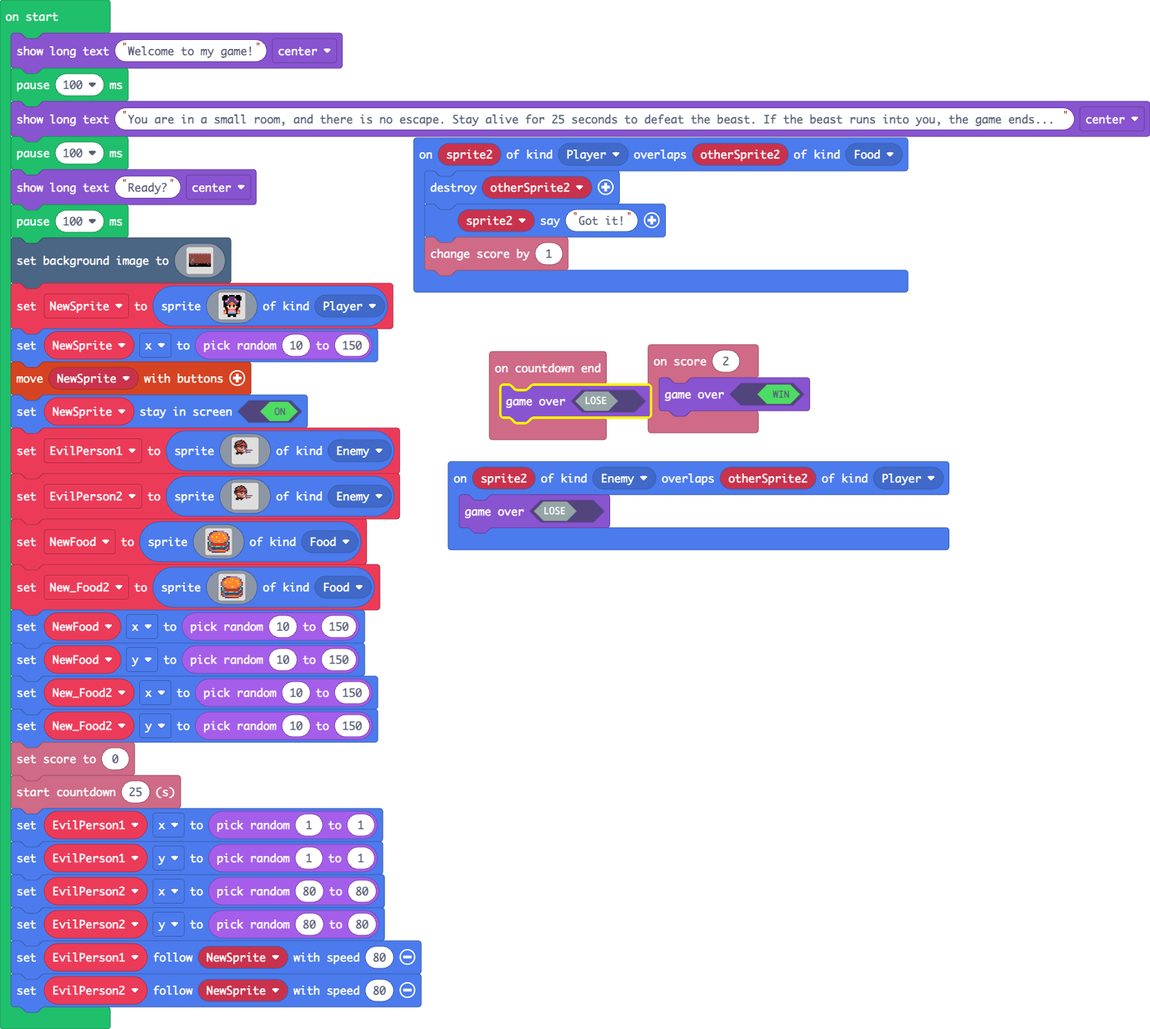
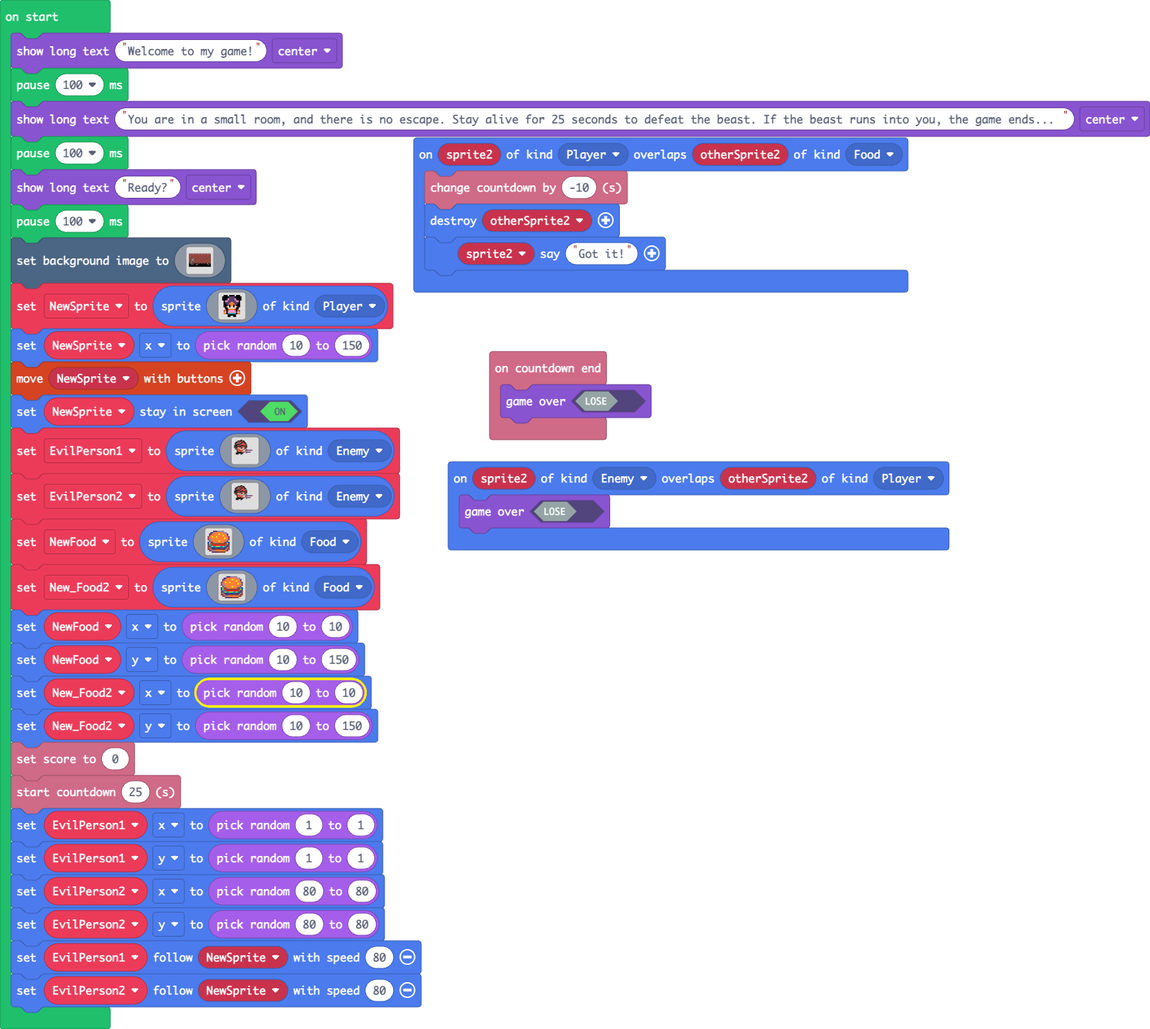
Update main.blocks, main.ts, main.py

diff --git a/main.ts b/main.ts
@@ -4,13 +4,10 @@ sprites.onOverlap(SpriteKind.Enemy, SpriteKind.Player, function (sprite2, otherS
 info.onCountdownEnd(function () {
     game.gameOver(false)
 })
-info.onScore(2, function () {
-    game.gameOver(true)
-})
 sprites.onOverlap(SpriteKind.Player, SpriteKind.Food, function (sprite2, otherSprite2) {
+    info.changeCountdownBy(-10)
     sprites.destroy(otherSprite2)
     sprite2.sayText("Got it!")
-    info.changeScoreBy(1)
 })
 game.showLongText("Welcome to my game!", DialogLayout.Center)
 pause(100)
@@ -122,9 +119,9 @@ let EvilPerson1 = sprites.create(assets.image`EvilPerson`, SpriteKind.Enemy)
 let EvilPerson2 = sprites.create(assets.image`EvilPerson`, SpriteKind.Enemy)
 let NewFood = sprites.create(assets.image`Burger`, SpriteKind.Food)
 let New_Food2 = sprites.create(assets.image`Burger`, SpriteKind.Food)
-NewFood.x = randint(10, 150)
+NewFood.x = randint(10, 10)
 NewFood.y = randint(10, 150)
-New_Food2.x = randint(10, 150)
+New_Food2.x = randint(10, 10)
 New_Food2.y = randint(10, 150)
 info.setScore(0)
 info.startCountdown(25)

diff --git a/main.py b/main.py
@@ -1,16 +1,16 @@
+def on_on_overlap(sprite2, otherSprite2):
+    game.game_over(False)
+sprites.on_overlap(SpriteKind.enemy, SpriteKind.player, on_on_overlap)
+
 def on_countdown_end():
-    pass
+    game.game_over(False)
 info.on_countdown_end(on_countdown_end)
 
-def on_on_score():
-    game.game_over(True)
-info.on_score(2, on_on_score)
-
-def on_on_overlap(sprite2, otherSprite2):
-    sprites.destroy(otherSprite2)
-    sprite2.say_text("Got it!")
-    info.change_score_by(1)
-sprites.on_overlap(SpriteKind.player, SpriteKind.food, on_on_overlap)
+def on_on_overlap2(sprite22, otherSprite22):
+    info.change_countdown_by(-10)
+    sprites.destroy(otherSprite22)
+    sprite22.say_text("Got it!")
+sprites.on_overlap(SpriteKind.player, SpriteKind.food, on_on_overlap2)
 
 game.show_long_text("Welcome to my game!", DialogLayout.CENTER)
 pause(100)
@@ -21,99 +21,99 @@ game.show_long_text("Ready?", DialogLayout.CENTER)
 pause(100)
 scene.set_background_image(img("""
     beeeeebbbbbbbbbbbebbbeeeebbbbbbbbbebbbbbbbeeeeebbbbbbbbbbbebbbeeeeebbbbbbbbebbbbbbbeeeeebbbbbbbbbbbbebbbeeeebbbbbbbbebbbbbbbeeeeebbbbbbbbbbbbebbbeeeebbbbbbbbebb
-    eeebeeeebbbbeebbbbbeeeeeeeebbeeebbbbbebbeeeebeeeebbbbeebbbbbeeeeeeeeebbeebbbbbebbeeeebeeeebbbbeebbbbbbeeeeeeeebbeebbbbbebbeeeebeeeeebbbbeebbbbbeeeeeeeebbeebbbbb
-    eeeeeeeeebbbeebbbbeebeeeeeeebeeebbbbbbbeeeeeeeeeeebbbeebbbbeebeeeeeeeebeebbbbbbbeeeeeeeeeeebbbeebbbbbeebeeeeeeebeebbbbbbbeeeeeeeeeeeebbbeebbbbeebeeeeeeebeebbbbb
-    beeeeeeeeebbbbbbbeeeeeeeeeeeebbbbbbbbbeebbeeeeeeeeebbbbbbbeeeeeeeeeeeeebbbbbbbbeebbeeeeeeeeebbbbbbbbeeeeeeeeeeeebbbbbbbbeebbeeeeeeeeeebbbbbbbeeeeeeeeeeeebbbbbbb
-    beeeeeeeeeeebbbeeeeeeeeeebbeeeeebbbbeeeebbeeeeeeeeeeebbbeeeeeeeeeeebbeeeebbbbeeeebbeeeeeeeeeeebbbbeeeeeeeeeebbeeeebbbbeeeebbeeeeeeeeeeeebbbeeeeeeeeeebbeeeebbbbe
-    eeeeeeeeeeeeeeeeeeeeeeeeebbeeeeeeeeeeeeeeeeeeeeeeeeeeeeeeeeeeeeeeeebbeeeeeeeeeeeeeeeeeeeeeeeeeeeeeeeeeeeeeeebbeeeeeeeeeeeeeeeeeeeeeeeeeeeeeeeeeeeeeeebbeeeeeeeee
-    eeeeeeeebbeeeeeebbeeeeeeeeeeebeeeeeeebeeeeeeeeeeebbeeeeeebbeeeeeeeeeeeebeeeeeebeeeeeeeeeeebbeeeeeeebbeeeeeeeeeeebeeeeeebeeeeeeeeeeeebbeeeeeebbeeeeeeeeeeebeeeeee
-    eeeeeeeebbeeeeeebbeeeeeeeeeeeeeeebbeeeeeeeeeeeeeebbeeeeeebbeeeeeeeeeeeeeeebbeeeeeeeeeeeeeebbeeeeeeebbeeeeeeeeeeeeeebbeeeeeeeeeeeeeeebbeeeeeebbeeeeeeeeeeeeeebbee
-    eeeeeeeeeeeebeeeeeeeeeeeeeeeeeeeebbeeeeeeeeeeeeeeeeeebeeeeeeeeeeeeeeeeeeeebbeeeeeeeeeeeeeeeeeebeeeeeeeeeeeeeeeeeeeebbeeeeeeeeeeeeeeeeeeebeeeeeeeeeeeeeeeeeeebbee
-    eeeeeeeeeeeeeeeeeeeeeeeeeeeeeeeeeeeeeeeeeeeeeeeeeeeeeeeeeeeeeeeeeeeeeeeeeeeeeeeeeeeeeeeeeeeeeeeeeeeeeeeeeeeeeeeeeeeeeeeeeeeeeeeeeeeeeeeeeeeeeeeeeeeeeeeeeeeeeeee
-    eeeeeeeeeeeeeeeeeeeeeeeeeeeeeeeeeeeeeeeeeeeeeeeeeeeeeeeeeeeeeeeeeeeeeeeeeeeeeeeeeeeeeeeeeeeeeeeeeeeeeeeeeeeeeeeeeeeeeeeeeeeeeeeeeeeeeeeeeeeeeeeeeeeeeeeeeeeeeeee
-    eeeeeeeeeeeeeeeeeeeeeeeeeeeeeeeeeeeeeeeeeeeeeeeeeeeeeeeeeeeeeeeeeeeeeeeeeeeeeeeeeeeeeeeeeeeeeeeeeeeeeeeeeeeeeeeeeeeeeeeeeeeeeeeeeeeeeeeeeeeeeeeeeeeeeeeeeeeeeeee
-    eeeeeeeeeeeeeeeeeeeeeeeeeeeeeeeeeeeeeeeeeeeeeeeeeeeeeeeeeeeeeeeeeeeeeeeeeeeeeeeeeeeeeeeeeeeeeeeeeeeeeeeeeeeeeeeeeeeeeeeeeeeeeeeeeeeeeeeeeeeeeeeeeeeeeeeeeeeeeeee
-    eeeeeeeeeeeeeeeeeeeeeeeeeeeeeeeeeeeeeeeeeeeeeeeeeeeeeeeeeeeeeeeeeeeeeeeeeeeeeeeeeeeeeeeeeeeeeeeeeeeeeeeeeeeeeeeeeeeeeeeeeeeeeeeeeeeeeeeeeeeeeeeeeeeeeeeeeeeeeeee
-    eeeeeeeeeeeeeeeeeeeeeeeeeeeeeeeeeeeeeeeeeeeeeeeeeeeeeeeeeeeeeeeeeeeeeeeeeeeeeeeeeeeeeeeeeeeeeeeeeeeeeeeeeeeeeeeeeeeeeeeeeeeeeeeeeeeeeeeeeeeeeeeeeeeeeeeeeeeeeeee
-    eeeeeeeeffffeeeeeeeeeeeeeeeeeeeeeeeeeeeeeeeeeeeeeeeeeeeeeeeeeeeeeeeeeeeeeeeeeeeeeeeeeeeeeeeeeeeeeeeeeeeeeeeeeeeeeeeeeeeeeeeeeeeeeeeeeeeeeeeeeeeeeeeeeeeeeeeeeeee
-    eeeeeeeefdbfeeeeeeeeeeeeeeeeeeeeeeeeeeeeeeeeeeeeeeeeeeeeeeeeeeeeeeeeeeeeeeeeeeeeeeeeeeeeeeeeeeeeeeeeeeeeeeeeeeeeeeeeeeeeeeeeeeeeeeeeeeeeeeffffeeeeeeeeeeeeeeeeee
-    eeeeeeeefdbfeeeeeeeeeeeeeeeeeeeeeeeeeeeeeeeeeeeeeeeeeeeeeeeeeeeeeeeeeeeeeeeeeeeeeeeeeeeeeeeeeeeeeeeeeeeeeeeeeeeeeeeeeeeeeeeeeeeeeeeeeeeeeeffffeeeeeeeeeeeeeeeeee
-    eeeeeeffbddfeeeeeeeeeeeeeeeeeeeeeeeeeeeeeeeeeeeeeeeeeeeeeeeeeeeeeeeeeeeeeeeeeeeeeeeeeeeeeeeeeeeeeeeeeeeeeeeeeeeeeeeeeeeeeeeeeeeeeeeeeeeeeefdbfeeeeeeeeeeeeeeeeee
-    eeeeeefddddfeeeeeeeeeeeeeeeeeeeeeeeeeeeeeeeeeeeeeeeeeeeeeeeeeeeeeeeeeeeeeeeeeeeeeeeeeeeeeeeeeeeeeeeeeeeeeeeeeeeeeeeeeeeeeeeeeeeeeeeeeeeeffbddfeeeeeeeeeeeeeeeeee
-    eeeeeefbdddffeeeeeeeeeeeeeeeeeeeeeeeeeeeeeeeeeeeeeeeeeeeeeeeeeeeeeeeeeeeeeeeeeeeeeeeeeeeeeeeeeeeeeeeeeeeeeeeeeeeeeeeeeeeeeeeeeeeeeeeeeeefddddffeeeeeeeeeeeeeeeee
-    eeeeeeffffbdffeeeeeeeeeeeeeeeeeeeeeeeeeeeeeeeeeeeeeeeeeeeeeeeeeeeeeeeeeeeeeeeeeeeeeeeeeeeeeeeeeeeeeeeeeeeeeeeeeeeeeeeeeeeeeeeeeeeeeeeeeefbdddbffeeeeeeeeeeeeeeee
-    eeeeeeeeeffddfffffeeeeeeeeeeeeeeeeeeeeeeeeeeeeeeeeeeeeeeeeeeeeeeeeeeeeeeeeeeeeeeeeeeeeeeeeeeeeeeeeeeeeeeeeeeeeeeeeeeeeeeeeeeeeeeeeeeeeeefffffddffeeeeeeeeeeeeeee
-    eeeeeeeeeeffbdddbfeeeeeeeeeeeeeeeeeeeeeeeeeeeeeeeeeeeeeeeeeeeeeeeeeeeeeeeeeeeeeeeeeeeeeeeeeeeeeeeeeeeeeeeeeeeeeeeeeeeeeeeeeeeeeeeeeeeeeeeeeeffddffeeeeeeeeeeeeee
-    eeeeeeeeeeeffddddfeeeeeeeeeeeeeeeeeeeeeeeeeeeeeeeeeeeeeeeeeeeeeeeeeeeeeeeeeeeeeeeeeeeeeeeeeeeeeeeeeeeeeeeeeeeeeeeeeeeeeeeeeeeeeeeeeeeeeeeeeeeffddffeeeeeeeeeeeee
-    eeeeeeeeeeeefddbffeeeeeeeeeeeeeeeeeeeeeeeeeeeeeeeeeeeeeeeeeeeeeeeeeeeeeeeeeeeeeeeeeeeeeeeeeeeeeeeeeeeeeeeeeeeeeeeeeeeeeeeeeeeeeeeeeeeeeeeeeeeeffdbffffeeeeeeeeee
-    eeeeeeeeeeeefbdfeeeeeeeeeeeeeeeeeeeeeeeeeeeeeeeeeeeeeeeeeeeeeeeeeeeeeeeeeeeeeeeeeeeeeeeeeeeeeeeeeeeeeeeeeeeeeeeeeeeeeeeeeeeeeeeeeeeeeeeeeeeeeeeffdddbfeeeeeeeeee
-    eeeeeeeeeeeeffffeeeeeeeeeeeeeeeeeeeeeeeeeeeeeeeeeeeeeeeeeeeeeeeeeeeeeeeeeeeeeeeeeeeeeeeeeeeeeeeeeeeeeeeeeeeeeeeeeeeeeeeeeeeeeeeeeeeeeeeeeeeeeeeefddddfeeeeeeeeee
-    eeeeeeeeeeeeeeeeeeeeeeeeeeeeeeeeeeeeeeeeeeeeeeeeeeeeeeeeeeeeeeeeeeeeeeeeeeeeeeeeeeeeeeeeeeeeeeeeeeeeeeeeeeeeeeeeeeeeeeeeeeeeeeeeeeeeeeeeeeeeeeeefddbffeeeeeeeeee
-    eeeeeeeeeeeeeeeeeeeeeeeeeeeeeeeeeeeeeeeeeeeeeeeeeeeeeeeeeeeeeeeeeeeeeeeeeeeeeeeeeeeeeeeeeeeeeeeeeeeeeeeeeeeeeeeeeeeeeeeeeeeeeeeeeeeeeeeeeeeeeeeefbdfeeeeeeeeeeee
-    eeeeeeeeeeeeeeeeeeeeeeeeeeeeeeeeeeeeeeeeeeeeeeeeeeeeeeeeeeeeeeeeeeeeeeeeeeeeeeeeeeeeeeeeeeeeeeeeeeeeeeeeeeeeeeeeeeeeeeeeeeeeeeeeeeeeeeeeeeeeeeeeffffeeeeeeeeeeee
-    eeeeeeeeeeeeeeeeeeeeeeeeeeeeeeeeeeeeeeeeeeeeeeeeeeeeeeeeeeeeeeeeeeeeeeeeeeeeeeeeeeeeeeeeeeeeeeeeeeeeeeeeeeeeeeeeeeeeeeeeeeeeeeeeeeeeeeeeeeeeeeeeeeeeeeeeeeeeeeee
-    eeeeeeeeeeeeeeeeeeeeeeeeeeeeeeeeeeeeeeeeeeeeeeeeeeeeeeeeeeeeeeeeeeeeeeeeeeeeeeeeeeeeeeeeeeeeeeeeeeeeeeeeeeeeeeeeeeeeeeeeeeeeeeeeeeeeeeeeeeeeeeeeeeeeeeeeeeeeeeee
-    eeeeeeeeeeeeeeeeeeeeeeeeeeeeeeeeeeeefffffffeeeeeeeeeeeeeeeeeeeeeeeeeeeeeeeeeeeeeeeeeeeeeeeeeeeeeeeeeeeeeeeeeeeeeeeeeeeeeeeeeeeeeeeeeeeeeeeeeeeeeeeeeeeeeeeeeeeee
-    eeeeeeeeeeeeeeeeeeeeeeeefffffffffffffddddddffeeeeeeeeeeeeeeeeeeeeeeeeeeeeeeeeeeeeeeeeeeeeeeeeeeeeeeeeeeeeeeeeeeeeeeeeeeeeeeeeeeeeeeeeeeeeeeeeeeeeeeeeeeeeeeeeeee
-    eeeeeeeeeeeeeeeeeeeeeefffdddddddddddddffddddfeeeeeeeeeeeeeeeeeeeeeeeeeeeeeeeeeeeeeeeeeeeeeeeeeeeeeeeeeeeeeeeeeeeeeeeeeeeeeeeeeeeeeeeeeeeeeeeeeeeeeeeeeeeeeeeeeee
-    eeeeeeeeeeeeeeeeeeeeeefffdddddddddddddffddddfeeeeeeeeeeeeeeeeeeeeeeeeeeeeeeeeeeeeeeeeeeeeeeeeeeeeeeeeeeeeeeeeeeeeeeeeeeeeeeeeeeeeeeeeeeeeeeeeeeeeeeeeeeeeeeeeeee
-    eeeeeeeeeeeeeeeeeeeeeffdddddddddffffdddffdddfeeeeeeeeeeeeeeeeeeeeeeeeeeeeeeeeeeeeeeeeeeeeeeeeeeeeeeeeeeeeeeeeeeeeeeeeeeeeeeeeeeeeeeeeeeeeeeeeeeeeeeeeeeeeeeeeeee
-    eeeeeeeeeeeeeeeeeeeeffdddfffddffffffdddddddffeeeeeeeeeeeeeeeeeeeeeeeeeeeeeeeeeeeeeeeeeeeeeeeeeeeeeeeeeeeeeeeeeeeeeeeeeeeeeeeeeeeeeeeeeeeeeeeeeeeeeeeeeeeeeeeeeee
-    eeeeeeeeeeeeeeeeeeeffdddfffffdfffffddddddbdfeeeeeeeeeeeeeeeeeeeeeeeeeeeeeeeeeeeeeeeeeeeeeeeeeeeeeeeeeeeeeeeeeeeeeeeeeeeeeeeeeeeeeeeeeeeeeeeeeeeeeeeeeeeeeeeeeeee
-    eeeeeeeeeeeeeeeeeeffdddffffffdddddddddbfdfdfeeeeeeeeeeeeeeeeeeeeeeeeeeeeeeeeeeeeeeeeeeeeeeeeeeeeeeeeeeeeeeeeeeeeeeeeeeeeeeeeeeeeeeeeeeeeeeeeeeeeeeeeeeeeeeeeeeee
-    eeeeeeeeeeeeeeeeeefddddfffffddddddddfdffdfdfeeeeeeeeeeeeeeeeeeeeeeeeeeeeeeeeeeeeeeeeeeeeeeeeeeeeeeeeeeeeeeeeeeeeeeeeeeeeeeeeeeeeeeeeeeeeeeeeeeeeeeeeeeeeeeeeeeee
-    eeeeeeeeeeeeeeeeeefdddddfffdddddfffdffffffffeeeeeeeeeeeeeeeeeeeeeeeeeeeeeeeeeeeeeeeeeeeeeeeeeeeeeeeeeeeeeeeeeeeeeeeeeeeeeeeeeeeeeeeeeeeeeeeeeeeeeeeeeeeeeeeeeeee
-    eeeeeeeeeeeeeeeeeefdddddddddfffffefffeeeeeeeeeeeeeeeeeeeeeeeeeeeeeeeeeeeeeeeeeeeeeeeeeeeeeeeeeeeeeeeeeeeeeeeeeeeeeeeeeeeeeeeeeeeeeeeeeeeeeeeeeeeeeeeeeeeeeeeeeee
-    eeeeeeeeeeeeeeeeeeffdddbbbbffeeeeeeeeeeeeeeeeeeeeeeeeeeeeeeeeeeeeeeeeeeeeeeeeeeeeeeeeeeeeeeeeeeeeeeeeeeeeeeeeeeeeeeeeeeeeeeeeeeeeeeeeeeeeeeeeeeeeeeeeeeeeeeeeeee
-    eeeeeeeeeeeeeeeefffffbddddbbfffffeeeeeeeeeeeeeeeeeeeeeeeeeeeeeeeeeeeeeeeeeeeeeeeeeeeeeeeeeeeeeeeeeeeeeeeeeeeeeeeeeeeeeeeeeeeeeeeeeeeeeeeeeeeeeeeeeeeeeeeeeeeeeee
-    eeeeeeeeeeeeeeeefdffefddddddddddffffffffffffeeeeeeeeeeeeeeeeeeeeeeeeeeeeeeeeeeeeeeeeeeeeeeeeeeeeeeeeeeeeeeeeeeeeeeeeeeeeeeeeeeeeeeeeeeeeeeeeeeeeeeeeeeeeeeeeeeee
-    eeeeeeeeeeeeeeeefddfffdddddddddddffddddfdfdfeeeeeeeeeeeeeeeeeeeeeeeeeeeeeeeeeeeeeeeeeeeeeeeeeeeeeeeeeeeeeeeeeeeeeeeeeeeeeeeeeeeeeeeeeeeeeeeeeeeeeeeeeeeeeeeeeeee
-    eeeeeeeeeeeeeefffbbdfffddddddddddddddddbdbdfeeeeeeeeeeeeeeeeeeeeeeeeeeeeeeeeeeeeeeeeeeeeeeeeeeeeeeeeeeeeeeeeeeeeeeeeeeeeeeeeeeeeeeeeeeeeeeeeeeeeeeeeeeeeeeeeeeee
-    eeeeeeeeeeeefffddfffffeffdddddddddddddddddffeeeeeeeeeeeeeeeeeeeeeeeeeeeeeeeeeeeeeeeeeeeeeeeeeeeeeeeeeeeeeeeeeeeeeeeeeeeeeeeeeeeeeeeeeeeeeeeeeeeeeeeeeeeeeeeeeeee
-    eeeeeeeeeeeefdbbdddfbfeeffffdddddddffffffffeeeeeeeeeeeeeeeeeeeeeeeeeeeeeeeeeeeeeeeeeeeeeeeeeeeeeeeeeeeeeeeeeeeeeeeeeeeeeeeeeeeeeeeeeeeeeeeeeeeeeeeeeeeeeeeeeeeee
-    eeeeeeeeeeeefddbbfffdfeeeeefffffffffeeeeeeeeeeeeeeeeeeeeeeeeeeeeeeeeeeeeeeeeeeeeeeeeeeeeeeeeeeeeeeeeeeeeeeeeeeeeeeeeeeeeeeeeeeeeeeeeeeeeeeeeeeeeeeeeeeeeeeeeeeee
-    eeeeeeeeeeffffdddfefdffeeeeeeeeeeeeeeeeeeeeeeeeeeeeeeeeeeeeeeeeeeeeeeeeeeeeeeeeeeeeeeeeeeeeeeeeeeeeeeeeeeeeeeeeeeeeeeeeeeeeeeeeeeeeeeeeeeeeeeeeeeeeeeeeeeeeeeeee
-    eeeeeeeeeefbbfffffffddffeeeefffffeeeeefffffeeeeeeeeeeeeeeeeeeeeeeeeeeeeeeeeeeeeeeeeeeeeeeeeeeeeeeeeeeeeeeeeeeeeeeeeeeeeeeeeeeeeeeeeeeeeeeeeeeeeeeeeeeeeeeeeeeeee
-    eeeeeeeeeeffbbbfffdbdddffffefdddbfffffbdddffeeeeeeeeeeeeeeeeeeeeeeeeeeeeeeeeeeeeeeeeeeeeeeeeeeeeeeeeeeeeeeeeeeeeeeeeeeeeeeeeeeeeeeeeeeeeeeeeeeeeeeeeeeeeeeeeeeee
-    eeeeeeeeeeefffffdfdbbdddddfefddddddddbbbbddfeeeeeeeeeeeeeeeeeeeeeeeeeeeeeeeeeeeeeeeeeeeeeeeeeeeeeeeeeeeeeeeeeeeeeeeeeeeeeeeeeeeeeeeeeeeeeeeeeeeeeeeeeeeeeeeeeeee
-    eeeeeeeeeeefffffdfdbbdddddfefddddddddbbbbddfeeeeeeeeeeeeeeeeeeeeeeeeeeeeeeeeeeeeeeeeeeeeeeeeeeeeeeeeeeeeeeeeeeeeeeeeeeeeeeeeeeeeeeeeeeeeeeeeeeeeeeeeeeeeeeeeeeee
-    eeeeeeeeeeffbbbfdbddbbbffffeffffffdddbddbfdfeeeeeeeeeeeeeeeeeeeeeeeeeeeeeeeeeeeeeeeeeeeeeeeeeeeeeeeeeffffeeeeeeeeeeeeeeeeeeeeeeeeeeeeeeeeeeeeeeeeeeeeeeeeeeeeeee
-    eeeeeeeeeefbbfffdbbdddffffffeeeeeffffbbbdfffeeeeeeeeeeeeeeeeeeeeeeeeeeeeeeeeeeeeeeeeeeeeeeeeeeeeeeeeefbdfeeeeeeeeeeeeeeeeeeeeeeeeeeeeeeeeeeeeeeeeeeeeeeeeeeeeeee
-    eeeeeeeeeefffffbddbbdddddddfeeeeeeeeffdbdfeeeeeeeeeeeeeeeeeeeeeeeeeeeeeeeeeeeeeeeeeeeeeeeeeeeeeeeeeeefddbffeeeeeeeeeeeeeeeeeeeeeeeeeeeeeeeeeeeeeeeeeeeeeeeeeeeee
-    eeeeeeeeeefbbfdbbddbbfffffffeeeeeeeffddfdfeeeeeeeeeeeeeeeeeeeeeeeeeeeeeeeeeeeeeeeeeeeeeeeeeeeeeeeeeeffddddfeeeeeeeeeeeeeeeeeeeeeeeeeeeeeeeeeeeeeeeeeeeeeeeeeeeee
-    eeeeeeeeeefbffdbbbdddddddfeeeeeeeeefddffffeeeeeeeeeeeeeeeeeeeeeeeeeeeeeeeeeeeeeeeeeeeeeeeeeeeeeeeeeffbdddbfeeeeeeeeeeeeeeeeeeeeeeeeeeeeeeeeeeeeeeeeeeeeeeeeeeeee
-    eeeeeeeeeeffffdddbbfffffffeeeeeeeeeffffffffffeeeeeeeeeeeeeeeeeeeeeeeeeeeeeeeeeeeeeeeeeeeeeeeeeeeeeffddfffffeeeeeeeeeeeeeeeeeeeeeeeeeeeeeeeeeeeeeeeeeeeeeeeeeeeee
-    eeeeeeeeeeffdffdddfeeeeeeeeeeeeeeeeeeeffdffdfeeeeeeeeeeeeeeeeeeeeeeeeeeeeeeeeeeeeeeeeeeeeeeeeeeefffddffeeeeeeeeeeeeeeeeeeeeeeeeeeeeeeeeeeeeeeeeeeeeeeeeeeeeeeeee
-    eeeeeeeeeffddffffffeeeeeeeeeeeeeeeeeeefddffdffeeeeeeeeeeeeeeeeeeeeeeeeeeeeeeeeeeeeeeeeeeeeeeeeefffddffeeeeeeeeeeeeeeeeeeeeeeeeeeeeeeeeeeeeeeeeeeeeeeeeeeeeeeeeee
-    eeeeeeeeefddbffffeeeeeeeeeeffffffffeeffddffdbfeeeeeeeeeeeeeeeeeeeeeeeeeeeeeeeeeeeeeeeeeeeeeeffffbbdffeeeeeeeeeeeeeeeeeeeeeeeeeeeeeeeeeeeeeeeeeeeeeeeeeeeeeeeeeee
-    eeeeeeeeeffbbfddfeeeeeeeeeefddbbbdffefddfffddfeeeeeeeeeeeeeeeeeeeeeeeeeeeeeeeeeeeeeeeeeeeeeefbddddffeeeeeeeeeeeeeeeeeeeeeeeeeeeeeeeeeeeeeeeeeeeeeeeeeeeeeeeeeeee
-    feeeeeeeeefdddbbffeeeeeeeeffddbbdddfefdffffbdfeeeeeeeeeeeeeeeeeeeeeeeeeeeeeeeeeeeefeeeeeeeeefdddddfeeeeeeeeeeeeeeeeeeeeeeeefeeeeeeeeeeeeeeeeeeeeeeeeeeeeeeeeeeee
-    eeeeeeeefefffbbddfeeeeeeeefddffffddfffffeffbffeeefeeeeeeeeeeeeeeeeeeefeeeeeeeeeeeeeeeeeeeefeffbdddfeeeeeeeeeeefeeeeeeeeeeeeeeeeeeeeefeeeeeeeeeeeeeeeeeefeeeeeeee
-    efffffeeeeeefdddbffeeffffffddfeeffddfffeefdbfffeeeeeeeeeeefeeefffffeeeeeeeefeeeeeeefffffeeeeeefdbbfefeeeffffeeeeeeeefeeeeeeefffffeeeeeefffffefeeeffffeeeeeeeefee
-    fffeffffeeeefdfbbdfffffffbddffffeffdffeeffddfffffeeeeffeeeeefffffffffeeffeeeeefeeffffeffffeeeefffffeeeffffffffeeffeeeeefeeffffefffffeeefbdbfeeeffffffffeeffeeeee
-    fffffffffeeefffbdbffddddffbdffffeefffeefffbdffffffeeeffeeeeffeffffffffeffeeeeeeefffffffffffeeeffeeeeeffefffffffeffeeeeeeefffffffffffffffdddfeeffefffffffeffeeeee
-    efffffffffeeeefddffbdffddfbbfeeeeeeeeefffdbbfffffffeeeeeeefffffffffffffeeeeeeeeffeefffffffffeeeeeeeeffffffffffffeeeeeeeeffeeffffffffffbdddbffffffffffffffeeeeeee
-    efffffffffffeefffffddfffdeffffffeeeeffffbddffffffffffeeefffffffffffeeffffeeeeffffeefffffffffffeeeeffffffffffeeffffeeeeffffeeffffffffffddddddbffffffffeeffffeeeef
-    fffffffffffffffffffdddffdddffffffffffffdbbdfffffffffffffffffffbddbfeefffffffffffffffffffffffffffffffffffffffeeffffffffffffffffffffffffbddbddddbfffffffefffffffff
-    fffffffffffffffffffdddffdddffffffffffffdbbdfffffffffffffffffffbddbfeefffffffffffffffffffffffffffffffffffffffeeffffffffffffffffffffffffbddbddddbfffffffefffffffff
-    ffffffffeeffffffeefffddddddfffffffffdbddfffffffffeeffffffeefffddddfffffeffffffefffffffffffeefffffffeefffffffffffeffffffeffffffffffffeffffffbddddbbddbffffeffffff
-    ffffffffeeffffffeefffddddddfffdddbbddbdffffffffffeeffffffeefffbddddbffffffeeffffffffffffffeefffffffeeffffffffffffffeefffffffffffffffeefffffffbdddddddfffffffeeff
-    ffffffffffffefffffffffdddddffdddfbddfffffffffffffffffeffffffbdddddddffffffeeffffffffffffffffffeffffffffffffffffffffeefffffffffffffffffffefffffffdddddfffffffeeff
-    fffffffffffffffffffffffdddffffffffffffffffffffffffffffffffbddddbbddbffffffffffffffffffffffffffffffffffffffffffffffffffffffffffffffffffffffffffffdddbffffffffffff
-    ffffffffffffffffffffffffffffffffffffffffffffffffffffbddbbddddbffffffffffffffffffffffffffffffffffffffffffffffffffffffffffffffffffffffffffffffffffbddfffffffffffff
-    ffffffffffffffffffffffffffffffffffffffffffffffffffffdddddddbffffffffffffffffffffffffffffffffffffffffffffffffffffffffffffffffffffffffffffffffffffffffffffffffffff
-    ffffffffffffffffffffffffffffffffffffffffffffffffffffdddddfffffffffffffffffffffffffffffffffffffffffffffffffffffffffffffffffffffffffffffffffffffffffffffffffffffff
-    fffffffffffffffffffffffffffffffffffffffffffffffffffffbdddfffffffffffffffffffffffffffffffffffffffffffffffffffffffffffffffffffffffffffffffffffffffffffffffffffffff
-    ffffffffffffffffffffffffffffffffffffffffffffffffffffffddbfffffffffffffffffffffffffffffffffffffffffffffffffffffffffffffffffffffffffffffffffffffffffffffffffffffff
-    ffffffffffffffffffffffffffffffffffffffffffffffffffffffffffffffffffffffffffffffffffffffffffffffffffffffffffffffffffffffffffffffffffffffffffffffffffffffffffffffff
-    ffffffffffffffffffffffffffffffffffffffffffffffffffffffffffffffffffffffffffffffffffffffffffffffffffffffffffffffffffffffffffffffffffffffffffffffffffffffffffffffff
-    ffffffffffffffffffffffffffffffffffffffffffffffffffffffffffffffffffffffffffffffffffffffffffffffffffffffffffffffffffffffffffffffffffffffffffffffffffffffffffffffff
-    ffffffffffffffffffffffffffffffffffffffffffffffffffffffffffffffffffffffffffffffffffffffffffffffffffffffffffffffffffffffffffffffffffffffffffffffffffffffffffffffff
-    ffffffffffffffffffffffffffffffffffffffffffffffffffffffffffffffffffffffffffffffffffffffffffffffffffffffffffffffffffffffffffffffffffffffffffffffffffffffffffffffff
-    ffffffffffffffffffffffffffffffffffffffffffffffffffffffffffffffffffffffffffffffffffffffffffffffffffffffffffffffffffffffffffffffffffffffffffffffffffffffffffffffff
-    ffffffffffffffffffffffffffffffffffffffffffffffffffffffffffffffffffffffffffffffffffffffffffffffffffffffffffffffffffffffffffffffffffffffffffffffffffffffffffffffff
-    ffffffffffffffffffffffffffffffffffffffffffffffffffffffffffffffffffffffffffffffffffffffffffffffffffffffffffffffffffffffffffffffffffffffffffffffffffffffffffffffff
-    ffffffffffffffffffffffffffffffffffffffffffffffffffffffffffffffffffffffffffffffffffffffffffffffffffffffffffffffffffffffffffffffffffffffffffffffffffffffffffffffff
+        eeebeeeebbbbeebbbbbeeeeeeeebbeeebbbbbebbeeeebeeeebbbbeebbbbbeeeeeeeeebbeebbbbbebbeeeebeeeebbbbeebbbbbbeeeeeeeebbeebbbbbebbeeeebeeeeebbbbeebbbbbeeeeeeeebbeebbbbb
+        eeeeeeeeebbbeebbbbeebeeeeeeebeeebbbbbbbeeeeeeeeeeebbbeebbbbeebeeeeeeeebeebbbbbbbeeeeeeeeeeebbbeebbbbbeebeeeeeeebeebbbbbbbeeeeeeeeeeeebbbeebbbbeebeeeeeeebeebbbbb
+        beeeeeeeeebbbbbbbeeeeeeeeeeeebbbbbbbbbeebbeeeeeeeeebbbbbbbeeeeeeeeeeeeebbbbbbbbeebbeeeeeeeeebbbbbbbbeeeeeeeeeeeebbbbbbbbeebbeeeeeeeeeebbbbbbbeeeeeeeeeeeebbbbbbb
+        beeeeeeeeeeebbbeeeeeeeeeebbeeeeebbbbeeeebbeeeeeeeeeeebbbeeeeeeeeeeebbeeeebbbbeeeebbeeeeeeeeeeebbbbeeeeeeeeeebbeeeebbbbeeeebbeeeeeeeeeeeebbbeeeeeeeeeebbeeeebbbbe
+        eeeeeeeeeeeeeeeeeeeeeeeeebbeeeeeeeeeeeeeeeeeeeeeeeeeeeeeeeeeeeeeeeebbeeeeeeeeeeeeeeeeeeeeeeeeeeeeeeeeeeeeeeebbeeeeeeeeeeeeeeeeeeeeeeeeeeeeeeeeeeeeeeebbeeeeeeeee
+        eeeeeeeebbeeeeeebbeeeeeeeeeeebeeeeeeebeeeeeeeeeeebbeeeeeebbeeeeeeeeeeeebeeeeeebeeeeeeeeeeebbeeeeeeebbeeeeeeeeeeebeeeeeebeeeeeeeeeeeebbeeeeeebbeeeeeeeeeeebeeeeee
+        eeeeeeeebbeeeeeebbeeeeeeeeeeeeeeebbeeeeeeeeeeeeeebbeeeeeebbeeeeeeeeeeeeeeebbeeeeeeeeeeeeeebbeeeeeeebbeeeeeeeeeeeeeebbeeeeeeeeeeeeeeebbeeeeeebbeeeeeeeeeeeeeebbee
+        eeeeeeeeeeeebeeeeeeeeeeeeeeeeeeeebbeeeeeeeeeeeeeeeeeebeeeeeeeeeeeeeeeeeeeebbeeeeeeeeeeeeeeeeeebeeeeeeeeeeeeeeeeeeeebbeeeeeeeeeeeeeeeeeeebeeeeeeeeeeeeeeeeeeebbee
+        eeeeeeeeeeeeeeeeeeeeeeeeeeeeeeeeeeeeeeeeeeeeeeeeeeeeeeeeeeeeeeeeeeeeeeeeeeeeeeeeeeeeeeeeeeeeeeeeeeeeeeeeeeeeeeeeeeeeeeeeeeeeeeeeeeeeeeeeeeeeeeeeeeeeeeeeeeeeeeee
+        eeeeeeeeeeeeeeeeeeeeeeeeeeeeeeeeeeeeeeeeeeeeeeeeeeeeeeeeeeeeeeeeeeeeeeeeeeeeeeeeeeeeeeeeeeeeeeeeeeeeeeeeeeeeeeeeeeeeeeeeeeeeeeeeeeeeeeeeeeeeeeeeeeeeeeeeeeeeeeee
+        eeeeeeeeeeeeeeeeeeeeeeeeeeeeeeeeeeeeeeeeeeeeeeeeeeeeeeeeeeeeeeeeeeeeeeeeeeeeeeeeeeeeeeeeeeeeeeeeeeeeeeeeeeeeeeeeeeeeeeeeeeeeeeeeeeeeeeeeeeeeeeeeeeeeeeeeeeeeeeee
+        eeeeeeeeeeeeeeeeeeeeeeeeeeeeeeeeeeeeeeeeeeeeeeeeeeeeeeeeeeeeeeeeeeeeeeeeeeeeeeeeeeeeeeeeeeeeeeeeeeeeeeeeeeeeeeeeeeeeeeeeeeeeeeeeeeeeeeeeeeeeeeeeeeeeeeeeeeeeeeee
+        eeeeeeeeeeeeeeeeeeeeeeeeeeeeeeeeeeeeeeeeeeeeeeeeeeeeeeeeeeeeeeeeeeeeeeeeeeeeeeeeeeeeeeeeeeeeeeeeeeeeeeeeeeeeeeeeeeeeeeeeeeeeeeeeeeeeeeeeeeeeeeeeeeeeeeeeeeeeeeee
+        eeeeeeeeeeeeeeeeeeeeeeeeeeeeeeeeeeeeeeeeeeeeeeeeeeeeeeeeeeeeeeeeeeeeeeeeeeeeeeeeeeeeeeeeeeeeeeeeeeeeeeeeeeeeeeeeeeeeeeeeeeeeeeeeeeeeeeeeeeeeeeeeeeeeeeeeeeeeeeee
+        eeeeeeeeffffeeeeeeeeeeeeeeeeeeeeeeeeeeeeeeeeeeeeeeeeeeeeeeeeeeeeeeeeeeeeeeeeeeeeeeeeeeeeeeeeeeeeeeeeeeeeeeeeeeeeeeeeeeeeeeeeeeeeeeeeeeeeeeeeeeeeeeeeeeeeeeeeeeee
+        eeeeeeeefdbfeeeeeeeeeeeeeeeeeeeeeeeeeeeeeeeeeeeeeeeeeeeeeeeeeeeeeeeeeeeeeeeeeeeeeeeeeeeeeeeeeeeeeeeeeeeeeeeeeeeeeeeeeeeeeeeeeeeeeeeeeeeeeeffffeeeeeeeeeeeeeeeeee
+        eeeeeeeefdbfeeeeeeeeeeeeeeeeeeeeeeeeeeeeeeeeeeeeeeeeeeeeeeeeeeeeeeeeeeeeeeeeeeeeeeeeeeeeeeeeeeeeeeeeeeeeeeeeeeeeeeeeeeeeeeeeeeeeeeeeeeeeeeffffeeeeeeeeeeeeeeeeee
+        eeeeeeffbddfeeeeeeeeeeeeeeeeeeeeeeeeeeeeeeeeeeeeeeeeeeeeeeeeeeeeeeeeeeeeeeeeeeeeeeeeeeeeeeeeeeeeeeeeeeeeeeeeeeeeeeeeeeeeeeeeeeeeeeeeeeeeeefdbfeeeeeeeeeeeeeeeeee
+        eeeeeefddddfeeeeeeeeeeeeeeeeeeeeeeeeeeeeeeeeeeeeeeeeeeeeeeeeeeeeeeeeeeeeeeeeeeeeeeeeeeeeeeeeeeeeeeeeeeeeeeeeeeeeeeeeeeeeeeeeeeeeeeeeeeeeffbddfeeeeeeeeeeeeeeeeee
+        eeeeeefbdddffeeeeeeeeeeeeeeeeeeeeeeeeeeeeeeeeeeeeeeeeeeeeeeeeeeeeeeeeeeeeeeeeeeeeeeeeeeeeeeeeeeeeeeeeeeeeeeeeeeeeeeeeeeeeeeeeeeeeeeeeeeefddddffeeeeeeeeeeeeeeeee
+        eeeeeeffffbdffeeeeeeeeeeeeeeeeeeeeeeeeeeeeeeeeeeeeeeeeeeeeeeeeeeeeeeeeeeeeeeeeeeeeeeeeeeeeeeeeeeeeeeeeeeeeeeeeeeeeeeeeeeeeeeeeeeeeeeeeeefbdddbffeeeeeeeeeeeeeeee
+        eeeeeeeeeffddfffffeeeeeeeeeeeeeeeeeeeeeeeeeeeeeeeeeeeeeeeeeeeeeeeeeeeeeeeeeeeeeeeeeeeeeeeeeeeeeeeeeeeeeeeeeeeeeeeeeeeeeeeeeeeeeeeeeeeeeefffffddffeeeeeeeeeeeeeee
+        eeeeeeeeeeffbdddbfeeeeeeeeeeeeeeeeeeeeeeeeeeeeeeeeeeeeeeeeeeeeeeeeeeeeeeeeeeeeeeeeeeeeeeeeeeeeeeeeeeeeeeeeeeeeeeeeeeeeeeeeeeeeeeeeeeeeeeeeeeffddffeeeeeeeeeeeeee
+        eeeeeeeeeeeffddddfeeeeeeeeeeeeeeeeeeeeeeeeeeeeeeeeeeeeeeeeeeeeeeeeeeeeeeeeeeeeeeeeeeeeeeeeeeeeeeeeeeeeeeeeeeeeeeeeeeeeeeeeeeeeeeeeeeeeeeeeeeeffddffeeeeeeeeeeeee
+        eeeeeeeeeeeefddbffeeeeeeeeeeeeeeeeeeeeeeeeeeeeeeeeeeeeeeeeeeeeeeeeeeeeeeeeeeeeeeeeeeeeeeeeeeeeeeeeeeeeeeeeeeeeeeeeeeeeeeeeeeeeeeeeeeeeeeeeeeeeffdbffffeeeeeeeeee
+        eeeeeeeeeeeefbdfeeeeeeeeeeeeeeeeeeeeeeeeeeeeeeeeeeeeeeeeeeeeeeeeeeeeeeeeeeeeeeeeeeeeeeeeeeeeeeeeeeeeeeeeeeeeeeeeeeeeeeeeeeeeeeeeeeeeeeeeeeeeeeeffdddbfeeeeeeeeee
+        eeeeeeeeeeeeffffeeeeeeeeeeeeeeeeeeeeeeeeeeeeeeeeeeeeeeeeeeeeeeeeeeeeeeeeeeeeeeeeeeeeeeeeeeeeeeeeeeeeeeeeeeeeeeeeeeeeeeeeeeeeeeeeeeeeeeeeeeeeeeeefddddfeeeeeeeeee
+        eeeeeeeeeeeeeeeeeeeeeeeeeeeeeeeeeeeeeeeeeeeeeeeeeeeeeeeeeeeeeeeeeeeeeeeeeeeeeeeeeeeeeeeeeeeeeeeeeeeeeeeeeeeeeeeeeeeeeeeeeeeeeeeeeeeeeeeeeeeeeeeefddbffeeeeeeeeee
+        eeeeeeeeeeeeeeeeeeeeeeeeeeeeeeeeeeeeeeeeeeeeeeeeeeeeeeeeeeeeeeeeeeeeeeeeeeeeeeeeeeeeeeeeeeeeeeeeeeeeeeeeeeeeeeeeeeeeeeeeeeeeeeeeeeeeeeeeeeeeeeeefbdfeeeeeeeeeeee
+        eeeeeeeeeeeeeeeeeeeeeeeeeeeeeeeeeeeeeeeeeeeeeeeeeeeeeeeeeeeeeeeeeeeeeeeeeeeeeeeeeeeeeeeeeeeeeeeeeeeeeeeeeeeeeeeeeeeeeeeeeeeeeeeeeeeeeeeeeeeeeeeeffffeeeeeeeeeeee
+        eeeeeeeeeeeeeeeeeeeeeeeeeeeeeeeeeeeeeeeeeeeeeeeeeeeeeeeeeeeeeeeeeeeeeeeeeeeeeeeeeeeeeeeeeeeeeeeeeeeeeeeeeeeeeeeeeeeeeeeeeeeeeeeeeeeeeeeeeeeeeeeeeeeeeeeeeeeeeeee
+        eeeeeeeeeeeeeeeeeeeeeeeeeeeeeeeeeeeeeeeeeeeeeeeeeeeeeeeeeeeeeeeeeeeeeeeeeeeeeeeeeeeeeeeeeeeeeeeeeeeeeeeeeeeeeeeeeeeeeeeeeeeeeeeeeeeeeeeeeeeeeeeeeeeeeeeeeeeeeeee
+        eeeeeeeeeeeeeeeeeeeeeeeeeeeeeeeeeeeefffffffeeeeeeeeeeeeeeeeeeeeeeeeeeeeeeeeeeeeeeeeeeeeeeeeeeeeeeeeeeeeeeeeeeeeeeeeeeeeeeeeeeeeeeeeeeeeeeeeeeeeeeeeeeeeeeeeeeeee
+        eeeeeeeeeeeeeeeeeeeeeeeefffffffffffffddddddffeeeeeeeeeeeeeeeeeeeeeeeeeeeeeeeeeeeeeeeeeeeeeeeeeeeeeeeeeeeeeeeeeeeeeeeeeeeeeeeeeeeeeeeeeeeeeeeeeeeeeeeeeeeeeeeeeee
+        eeeeeeeeeeeeeeeeeeeeeefffdddddddddddddffddddfeeeeeeeeeeeeeeeeeeeeeeeeeeeeeeeeeeeeeeeeeeeeeeeeeeeeeeeeeeeeeeeeeeeeeeeeeeeeeeeeeeeeeeeeeeeeeeeeeeeeeeeeeeeeeeeeeee
+        eeeeeeeeeeeeeeeeeeeeeefffdddddddddddddffddddfeeeeeeeeeeeeeeeeeeeeeeeeeeeeeeeeeeeeeeeeeeeeeeeeeeeeeeeeeeeeeeeeeeeeeeeeeeeeeeeeeeeeeeeeeeeeeeeeeeeeeeeeeeeeeeeeeee
+        eeeeeeeeeeeeeeeeeeeeeffdddddddddffffdddffdddfeeeeeeeeeeeeeeeeeeeeeeeeeeeeeeeeeeeeeeeeeeeeeeeeeeeeeeeeeeeeeeeeeeeeeeeeeeeeeeeeeeeeeeeeeeeeeeeeeeeeeeeeeeeeeeeeeee
+        eeeeeeeeeeeeeeeeeeeeffdddfffddffffffdddddddffeeeeeeeeeeeeeeeeeeeeeeeeeeeeeeeeeeeeeeeeeeeeeeeeeeeeeeeeeeeeeeeeeeeeeeeeeeeeeeeeeeeeeeeeeeeeeeeeeeeeeeeeeeeeeeeeeee
+        eeeeeeeeeeeeeeeeeeeffdddfffffdfffffddddddbdfeeeeeeeeeeeeeeeeeeeeeeeeeeeeeeeeeeeeeeeeeeeeeeeeeeeeeeeeeeeeeeeeeeeeeeeeeeeeeeeeeeeeeeeeeeeeeeeeeeeeeeeeeeeeeeeeeeee
+        eeeeeeeeeeeeeeeeeeffdddffffffdddddddddbfdfdfeeeeeeeeeeeeeeeeeeeeeeeeeeeeeeeeeeeeeeeeeeeeeeeeeeeeeeeeeeeeeeeeeeeeeeeeeeeeeeeeeeeeeeeeeeeeeeeeeeeeeeeeeeeeeeeeeeee
+        eeeeeeeeeeeeeeeeeefddddfffffddddddddfdffdfdfeeeeeeeeeeeeeeeeeeeeeeeeeeeeeeeeeeeeeeeeeeeeeeeeeeeeeeeeeeeeeeeeeeeeeeeeeeeeeeeeeeeeeeeeeeeeeeeeeeeeeeeeeeeeeeeeeeee
+        eeeeeeeeeeeeeeeeeefdddddfffdddddfffdffffffffeeeeeeeeeeeeeeeeeeeeeeeeeeeeeeeeeeeeeeeeeeeeeeeeeeeeeeeeeeeeeeeeeeeeeeeeeeeeeeeeeeeeeeeeeeeeeeeeeeeeeeeeeeeeeeeeeeee
+        eeeeeeeeeeeeeeeeeefdddddddddfffffefffeeeeeeeeeeeeeeeeeeeeeeeeeeeeeeeeeeeeeeeeeeeeeeeeeeeeeeeeeeeeeeeeeeeeeeeeeeeeeeeeeeeeeeeeeeeeeeeeeeeeeeeeeeeeeeeeeeeeeeeeeee
+        eeeeeeeeeeeeeeeeeeffdddbbbbffeeeeeeeeeeeeeeeeeeeeeeeeeeeeeeeeeeeeeeeeeeeeeeeeeeeeeeeeeeeeeeeeeeeeeeeeeeeeeeeeeeeeeeeeeeeeeeeeeeeeeeeeeeeeeeeeeeeeeeeeeeeeeeeeeee
+        eeeeeeeeeeeeeeeefffffbddddbbfffffeeeeeeeeeeeeeeeeeeeeeeeeeeeeeeeeeeeeeeeeeeeeeeeeeeeeeeeeeeeeeeeeeeeeeeeeeeeeeeeeeeeeeeeeeeeeeeeeeeeeeeeeeeeeeeeeeeeeeeeeeeeeeee
+        eeeeeeeeeeeeeeeefdffefddddddddddffffffffffffeeeeeeeeeeeeeeeeeeeeeeeeeeeeeeeeeeeeeeeeeeeeeeeeeeeeeeeeeeeeeeeeeeeeeeeeeeeeeeeeeeeeeeeeeeeeeeeeeeeeeeeeeeeeeeeeeeee
+        eeeeeeeeeeeeeeeefddfffdddddddddddffddddfdfdfeeeeeeeeeeeeeeeeeeeeeeeeeeeeeeeeeeeeeeeeeeeeeeeeeeeeeeeeeeeeeeeeeeeeeeeeeeeeeeeeeeeeeeeeeeeeeeeeeeeeeeeeeeeeeeeeeeee
+        eeeeeeeeeeeeeefffbbdfffddddddddddddddddbdbdfeeeeeeeeeeeeeeeeeeeeeeeeeeeeeeeeeeeeeeeeeeeeeeeeeeeeeeeeeeeeeeeeeeeeeeeeeeeeeeeeeeeeeeeeeeeeeeeeeeeeeeeeeeeeeeeeeeee
+        eeeeeeeeeeeefffddfffffeffdddddddddddddddddffeeeeeeeeeeeeeeeeeeeeeeeeeeeeeeeeeeeeeeeeeeeeeeeeeeeeeeeeeeeeeeeeeeeeeeeeeeeeeeeeeeeeeeeeeeeeeeeeeeeeeeeeeeeeeeeeeeee
+        eeeeeeeeeeeefdbbdddfbfeeffffdddddddffffffffeeeeeeeeeeeeeeeeeeeeeeeeeeeeeeeeeeeeeeeeeeeeeeeeeeeeeeeeeeeeeeeeeeeeeeeeeeeeeeeeeeeeeeeeeeeeeeeeeeeeeeeeeeeeeeeeeeeee
+        eeeeeeeeeeeefddbbfffdfeeeeefffffffffeeeeeeeeeeeeeeeeeeeeeeeeeeeeeeeeeeeeeeeeeeeeeeeeeeeeeeeeeeeeeeeeeeeeeeeeeeeeeeeeeeeeeeeeeeeeeeeeeeeeeeeeeeeeeeeeeeeeeeeeeeee
+        eeeeeeeeeeffffdddfefdffeeeeeeeeeeeeeeeeeeeeeeeeeeeeeeeeeeeeeeeeeeeeeeeeeeeeeeeeeeeeeeeeeeeeeeeeeeeeeeeeeeeeeeeeeeeeeeeeeeeeeeeeeeeeeeeeeeeeeeeeeeeeeeeeeeeeeeeee
+        eeeeeeeeeefbbfffffffddffeeeefffffeeeeefffffeeeeeeeeeeeeeeeeeeeeeeeeeeeeeeeeeeeeeeeeeeeeeeeeeeeeeeeeeeeeeeeeeeeeeeeeeeeeeeeeeeeeeeeeeeeeeeeeeeeeeeeeeeeeeeeeeeeee
+        eeeeeeeeeeffbbbfffdbdddffffefdddbfffffbdddffeeeeeeeeeeeeeeeeeeeeeeeeeeeeeeeeeeeeeeeeeeeeeeeeeeeeeeeeeeeeeeeeeeeeeeeeeeeeeeeeeeeeeeeeeeeeeeeeeeeeeeeeeeeeeeeeeeee
+        eeeeeeeeeeefffffdfdbbdddddfefddddddddbbbbddfeeeeeeeeeeeeeeeeeeeeeeeeeeeeeeeeeeeeeeeeeeeeeeeeeeeeeeeeeeeeeeeeeeeeeeeeeeeeeeeeeeeeeeeeeeeeeeeeeeeeeeeeeeeeeeeeeeee
+        eeeeeeeeeeefffffdfdbbdddddfefddddddddbbbbddfeeeeeeeeeeeeeeeeeeeeeeeeeeeeeeeeeeeeeeeeeeeeeeeeeeeeeeeeeeeeeeeeeeeeeeeeeeeeeeeeeeeeeeeeeeeeeeeeeeeeeeeeeeeeeeeeeeee
+        eeeeeeeeeeffbbbfdbddbbbffffeffffffdddbddbfdfeeeeeeeeeeeeeeeeeeeeeeeeeeeeeeeeeeeeeeeeeeeeeeeeeeeeeeeeeffffeeeeeeeeeeeeeeeeeeeeeeeeeeeeeeeeeeeeeeeeeeeeeeeeeeeeeee
+        eeeeeeeeeefbbfffdbbdddffffffeeeeeffffbbbdfffeeeeeeeeeeeeeeeeeeeeeeeeeeeeeeeeeeeeeeeeeeeeeeeeeeeeeeeeefbdfeeeeeeeeeeeeeeeeeeeeeeeeeeeeeeeeeeeeeeeeeeeeeeeeeeeeeee
+        eeeeeeeeeefffffbddbbdddddddfeeeeeeeeffdbdfeeeeeeeeeeeeeeeeeeeeeeeeeeeeeeeeeeeeeeeeeeeeeeeeeeeeeeeeeeefddbffeeeeeeeeeeeeeeeeeeeeeeeeeeeeeeeeeeeeeeeeeeeeeeeeeeeee
+        eeeeeeeeeefbbfdbbddbbfffffffeeeeeeeffddfdfeeeeeeeeeeeeeeeeeeeeeeeeeeeeeeeeeeeeeeeeeeeeeeeeeeeeeeeeeeffddddfeeeeeeeeeeeeeeeeeeeeeeeeeeeeeeeeeeeeeeeeeeeeeeeeeeeee
+        eeeeeeeeeefbffdbbbdddddddfeeeeeeeeefddffffeeeeeeeeeeeeeeeeeeeeeeeeeeeeeeeeeeeeeeeeeeeeeeeeeeeeeeeeeffbdddbfeeeeeeeeeeeeeeeeeeeeeeeeeeeeeeeeeeeeeeeeeeeeeeeeeeeee
+        eeeeeeeeeeffffdddbbfffffffeeeeeeeeeffffffffffeeeeeeeeeeeeeeeeeeeeeeeeeeeeeeeeeeeeeeeeeeeeeeeeeeeeeffddfffffeeeeeeeeeeeeeeeeeeeeeeeeeeeeeeeeeeeeeeeeeeeeeeeeeeeee
+        eeeeeeeeeeffdffdddfeeeeeeeeeeeeeeeeeeeffdffdfeeeeeeeeeeeeeeeeeeeeeeeeeeeeeeeeeeeeeeeeeeeeeeeeeeefffddffeeeeeeeeeeeeeeeeeeeeeeeeeeeeeeeeeeeeeeeeeeeeeeeeeeeeeeeee
+        eeeeeeeeeffddffffffeeeeeeeeeeeeeeeeeeefddffdffeeeeeeeeeeeeeeeeeeeeeeeeeeeeeeeeeeeeeeeeeeeeeeeeefffddffeeeeeeeeeeeeeeeeeeeeeeeeeeeeeeeeeeeeeeeeeeeeeeeeeeeeeeeeee
+        eeeeeeeeefddbffffeeeeeeeeeeffffffffeeffddffdbfeeeeeeeeeeeeeeeeeeeeeeeeeeeeeeeeeeeeeeeeeeeeeeffffbbdffeeeeeeeeeeeeeeeeeeeeeeeeeeeeeeeeeeeeeeeeeeeeeeeeeeeeeeeeeee
+        eeeeeeeeeffbbfddfeeeeeeeeeefddbbbdffefddfffddfeeeeeeeeeeeeeeeeeeeeeeeeeeeeeeeeeeeeeeeeeeeeeefbddddffeeeeeeeeeeeeeeeeeeeeeeeeeeeeeeeeeeeeeeeeeeeeeeeeeeeeeeeeeeee
+        feeeeeeeeefdddbbffeeeeeeeeffddbbdddfefdffffbdfeeeeeeeeeeeeeeeeeeeeeeeeeeeeeeeeeeeefeeeeeeeeefdddddfeeeeeeeeeeeeeeeeeeeeeeeefeeeeeeeeeeeeeeeeeeeeeeeeeeeeeeeeeeee
+        eeeeeeeefefffbbddfeeeeeeeefddffffddfffffeffbffeeefeeeeeeeeeeeeeeeeeeefeeeeeeeeeeeeeeeeeeeefeffbdddfeeeeeeeeeeefeeeeeeeeeeeeeeeeeeeeefeeeeeeeeeeeeeeeeeefeeeeeeee
+        efffffeeeeeefdddbffeeffffffddfeeffddfffeefdbfffeeeeeeeeeeefeeefffffeeeeeeeefeeeeeeefffffeeeeeefdbbfefeeeffffeeeeeeeefeeeeeeefffffeeeeeefffffefeeeffffeeeeeeeefee
+        fffeffffeeeefdfbbdfffffffbddffffeffdffeeffddfffffeeeeffeeeeefffffffffeeffeeeeefeeffffeffffeeeefffffeeeffffffffeeffeeeeefeeffffefffffeeefbdbfeeeffffffffeeffeeeee
+        fffffffffeeefffbdbffddddffbdffffeefffeefffbdffffffeeeffeeeeffeffffffffeffeeeeeeefffffffffffeeeffeeeeeffefffffffeffeeeeeeefffffffffffffffdddfeeffefffffffeffeeeee
+        efffffffffeeeefddffbdffddfbbfeeeeeeeeefffdbbfffffffeeeeeeefffffffffffffeeeeeeeeffeefffffffffeeeeeeeeffffffffffffeeeeeeeeffeeffffffffffbdddbffffffffffffffeeeeeee
+        efffffffffffeefffffddfffdeffffffeeeeffffbddffffffffffeeefffffffffffeeffffeeeeffffeefffffffffffeeeeffffffffffeeffffeeeeffffeeffffffffffddddddbffffffffeeffffeeeef
+        fffffffffffffffffffdddffdddffffffffffffdbbdfffffffffffffffffffbddbfeefffffffffffffffffffffffffffffffffffffffeeffffffffffffffffffffffffbddbddddbfffffffefffffffff
+        fffffffffffffffffffdddffdddffffffffffffdbbdfffffffffffffffffffbddbfeefffffffffffffffffffffffffffffffffffffffeeffffffffffffffffffffffffbddbddddbfffffffefffffffff
+        ffffffffeeffffffeefffddddddfffffffffdbddfffffffffeeffffffeefffddddfffffeffffffefffffffffffeefffffffeefffffffffffeffffffeffffffffffffeffffffbddddbbddbffffeffffff
+        ffffffffeeffffffeefffddddddfffdddbbddbdffffffffffeeffffffeefffbddddbffffffeeffffffffffffffeefffffffeeffffffffffffffeefffffffffffffffeefffffffbdddddddfffffffeeff
+        ffffffffffffefffffffffdddddffdddfbddfffffffffffffffffeffffffbdddddddffffffeeffffffffffffffffffeffffffffffffffffffffeefffffffffffffffffffefffffffdddddfffffffeeff
+        fffffffffffffffffffffffdddffffffffffffffffffffffffffffffffbddddbbddbffffffffffffffffffffffffffffffffffffffffffffffffffffffffffffffffffffffffffffdddbffffffffffff
+        ffffffffffffffffffffffffffffffffffffffffffffffffffffbddbbddddbffffffffffffffffffffffffffffffffffffffffffffffffffffffffffffffffffffffffffffffffffbddfffffffffffff
+        ffffffffffffffffffffffffffffffffffffffffffffffffffffdddddddbffffffffffffffffffffffffffffffffffffffffffffffffffffffffffffffffffffffffffffffffffffffffffffffffffff
+        ffffffffffffffffffffffffffffffffffffffffffffffffffffdddddfffffffffffffffffffffffffffffffffffffffffffffffffffffffffffffffffffffffffffffffffffffffffffffffffffffff
+        fffffffffffffffffffffffffffffffffffffffffffffffffffffbdddfffffffffffffffffffffffffffffffffffffffffffffffffffffffffffffffffffffffffffffffffffffffffffffffffffffff
+        ffffffffffffffffffffffffffffffffffffffffffffffffffffffddbfffffffffffffffffffffffffffffffffffffffffffffffffffffffffffffffffffffffffffffffffffffffffffffffffffffff
+        ffffffffffffffffffffffffffffffffffffffffffffffffffffffffffffffffffffffffffffffffffffffffffffffffffffffffffffffffffffffffffffffffffffffffffffffffffffffffffffffff
+        ffffffffffffffffffffffffffffffffffffffffffffffffffffffffffffffffffffffffffffffffffffffffffffffffffffffffffffffffffffffffffffffffffffffffffffffffffffffffffffffff
+        ffffffffffffffffffffffffffffffffffffffffffffffffffffffffffffffffffffffffffffffffffffffffffffffffffffffffffffffffffffffffffffffffffffffffffffffffffffffffffffffff
+        ffffffffffffffffffffffffffffffffffffffffffffffffffffffffffffffffffffffffffffffffffffffffffffffffffffffffffffffffffffffffffffffffffffffffffffffffffffffffffffffff
+        ffffffffffffffffffffffffffffffffffffffffffffffffffffffffffffffffffffffffffffffffffffffffffffffffffffffffffffffffffffffffffffffffffffffffffffffffffffffffffffffff
+        ffffffffffffffffffffffffffffffffffffffffffffffffffffffffffffffffffffffffffffffffffffffffffffffffffffffffffffffffffffffffffffffffffffffffffffffffffffffffffffffff
+        ffffffffffffffffffffffffffffffffffffffffffffffffffffffffffffffffffffffffffffffffffffffffffffffffffffffffffffffffffffffffffffffffffffffffffffffffffffffffffffffff
+        ffffffffffffffffffffffffffffffffffffffffffffffffffffffffffffffffffffffffffffffffffffffffffffffffffffffffffffffffffffffffffffffffffffffffffffffffffffffffffffffff
+        ffffffffffffffffffffffffffffffffffffffffffffffffffffffffffffffffffffffffffffffffffffffffffffffffffffffffffffffffffffffffffffffffffffffffffffffffffffffffffffffff
 """))
 NewSprite = sprites.create(assets.image("""
     Hero
